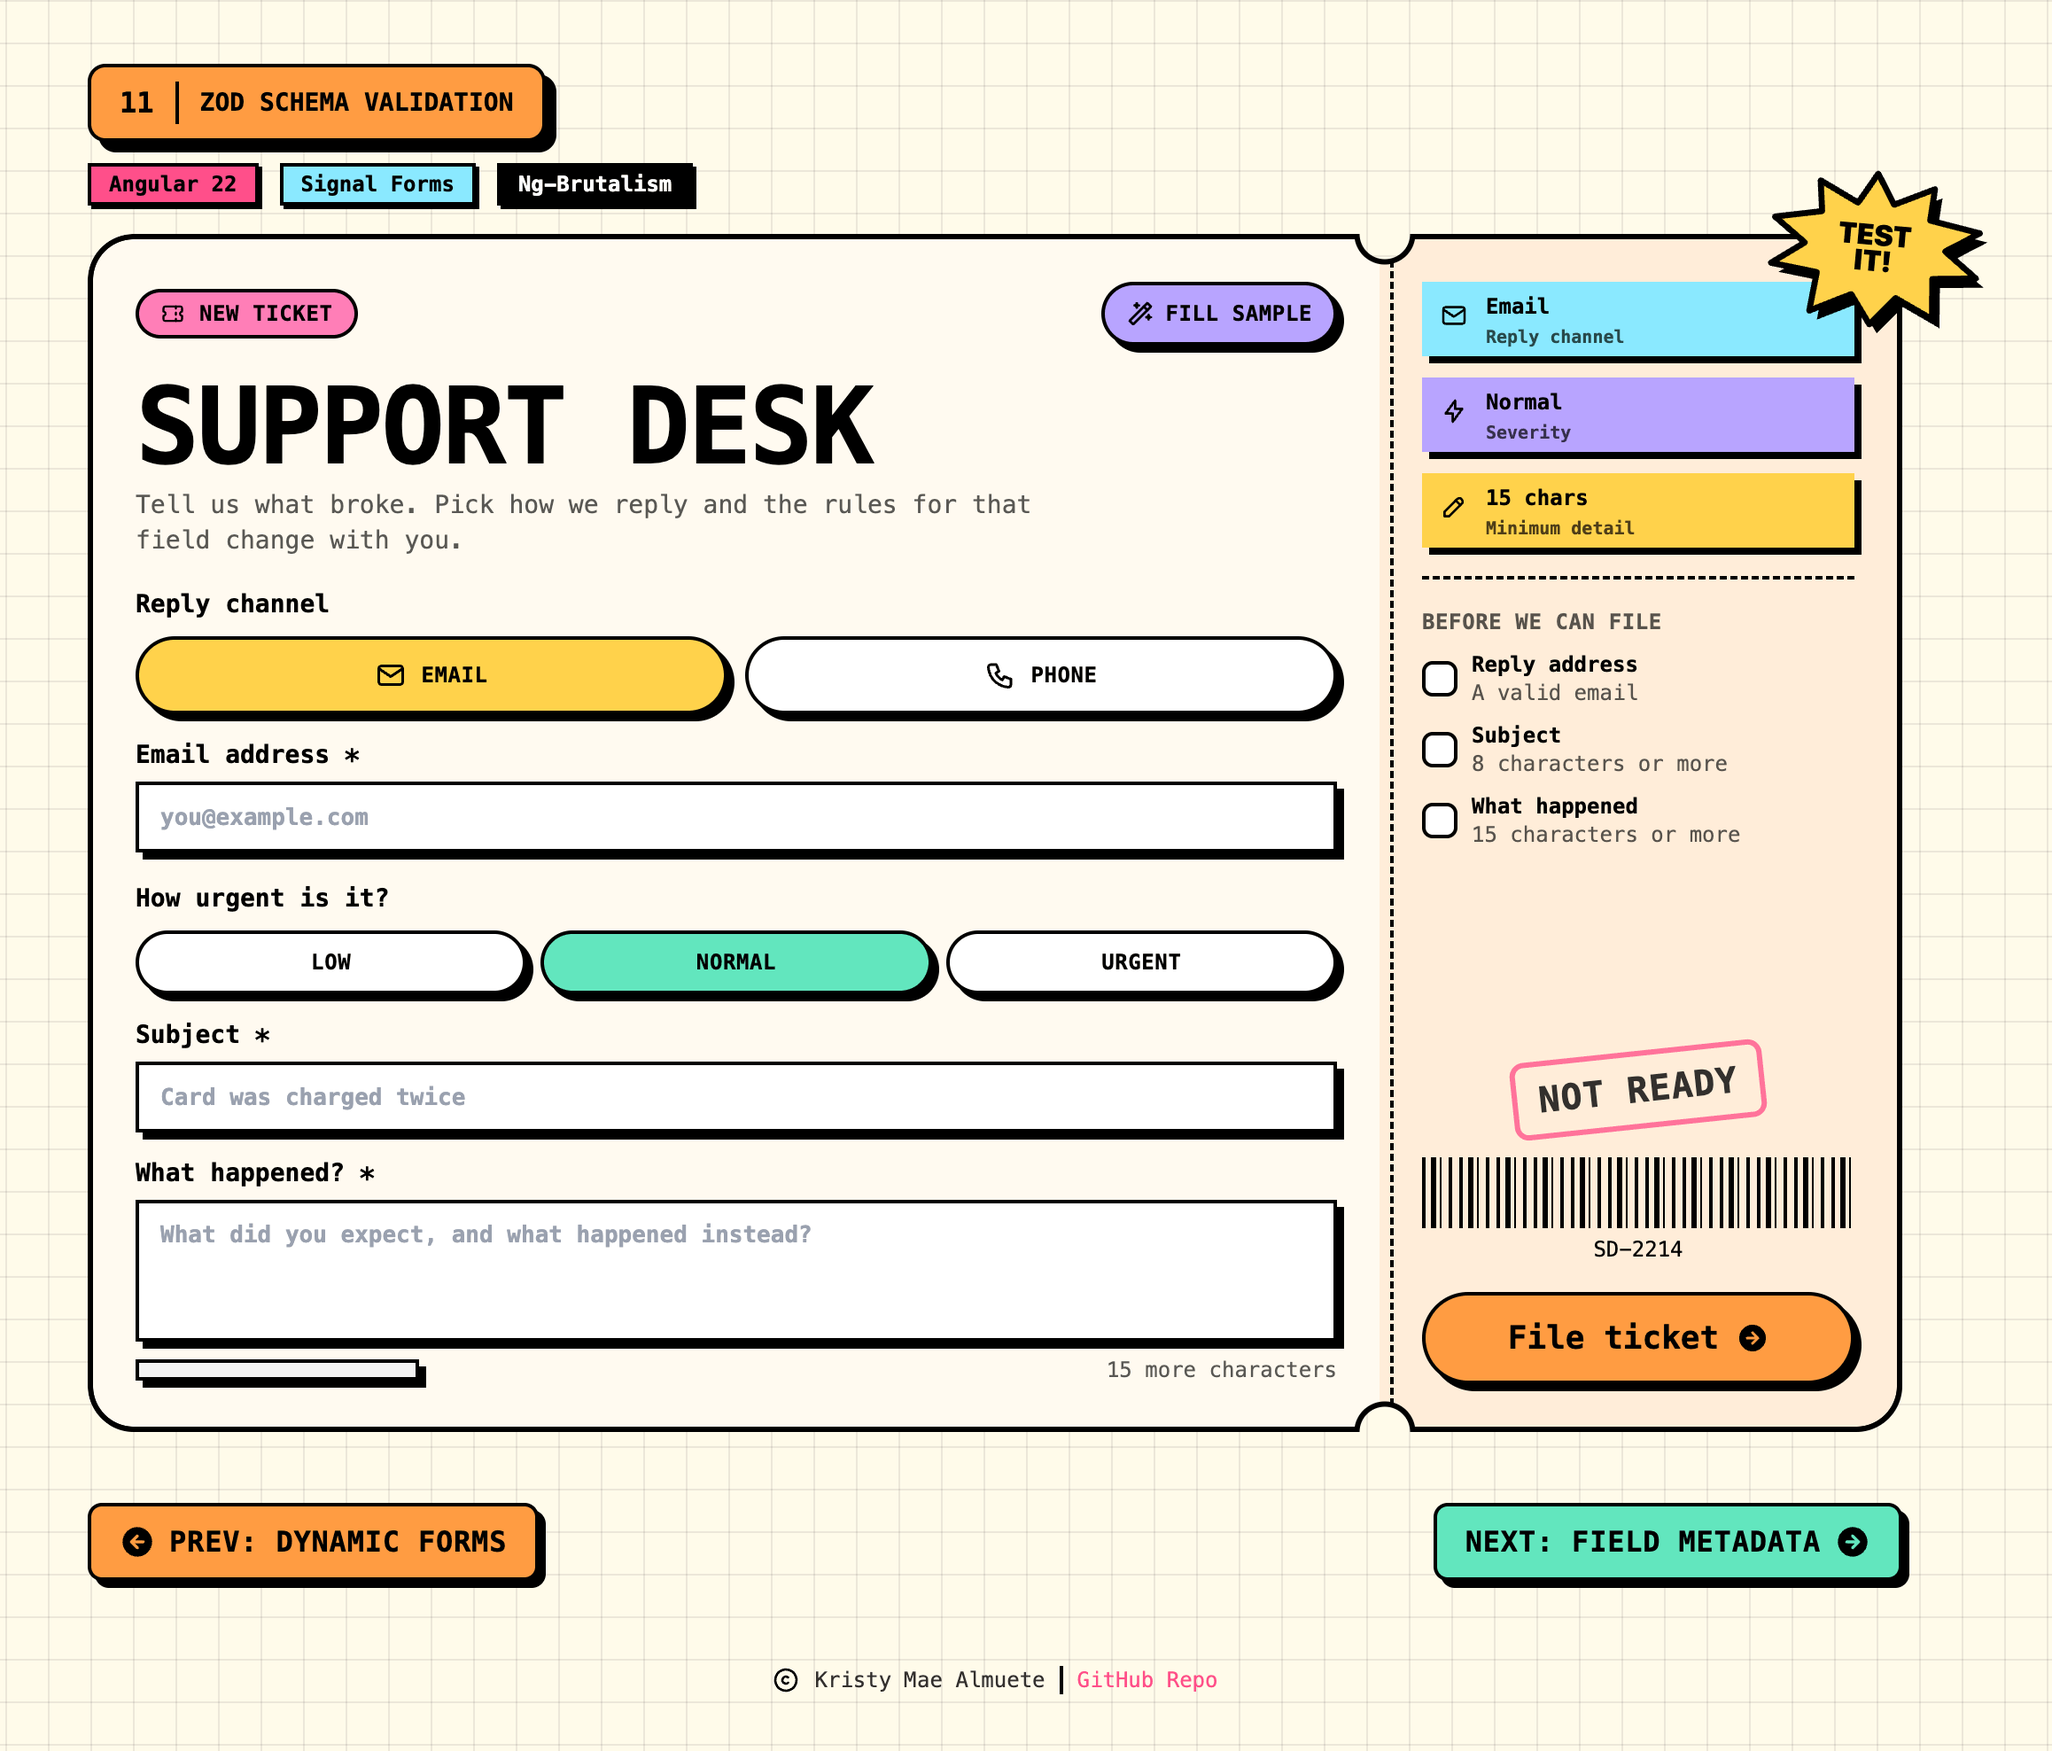
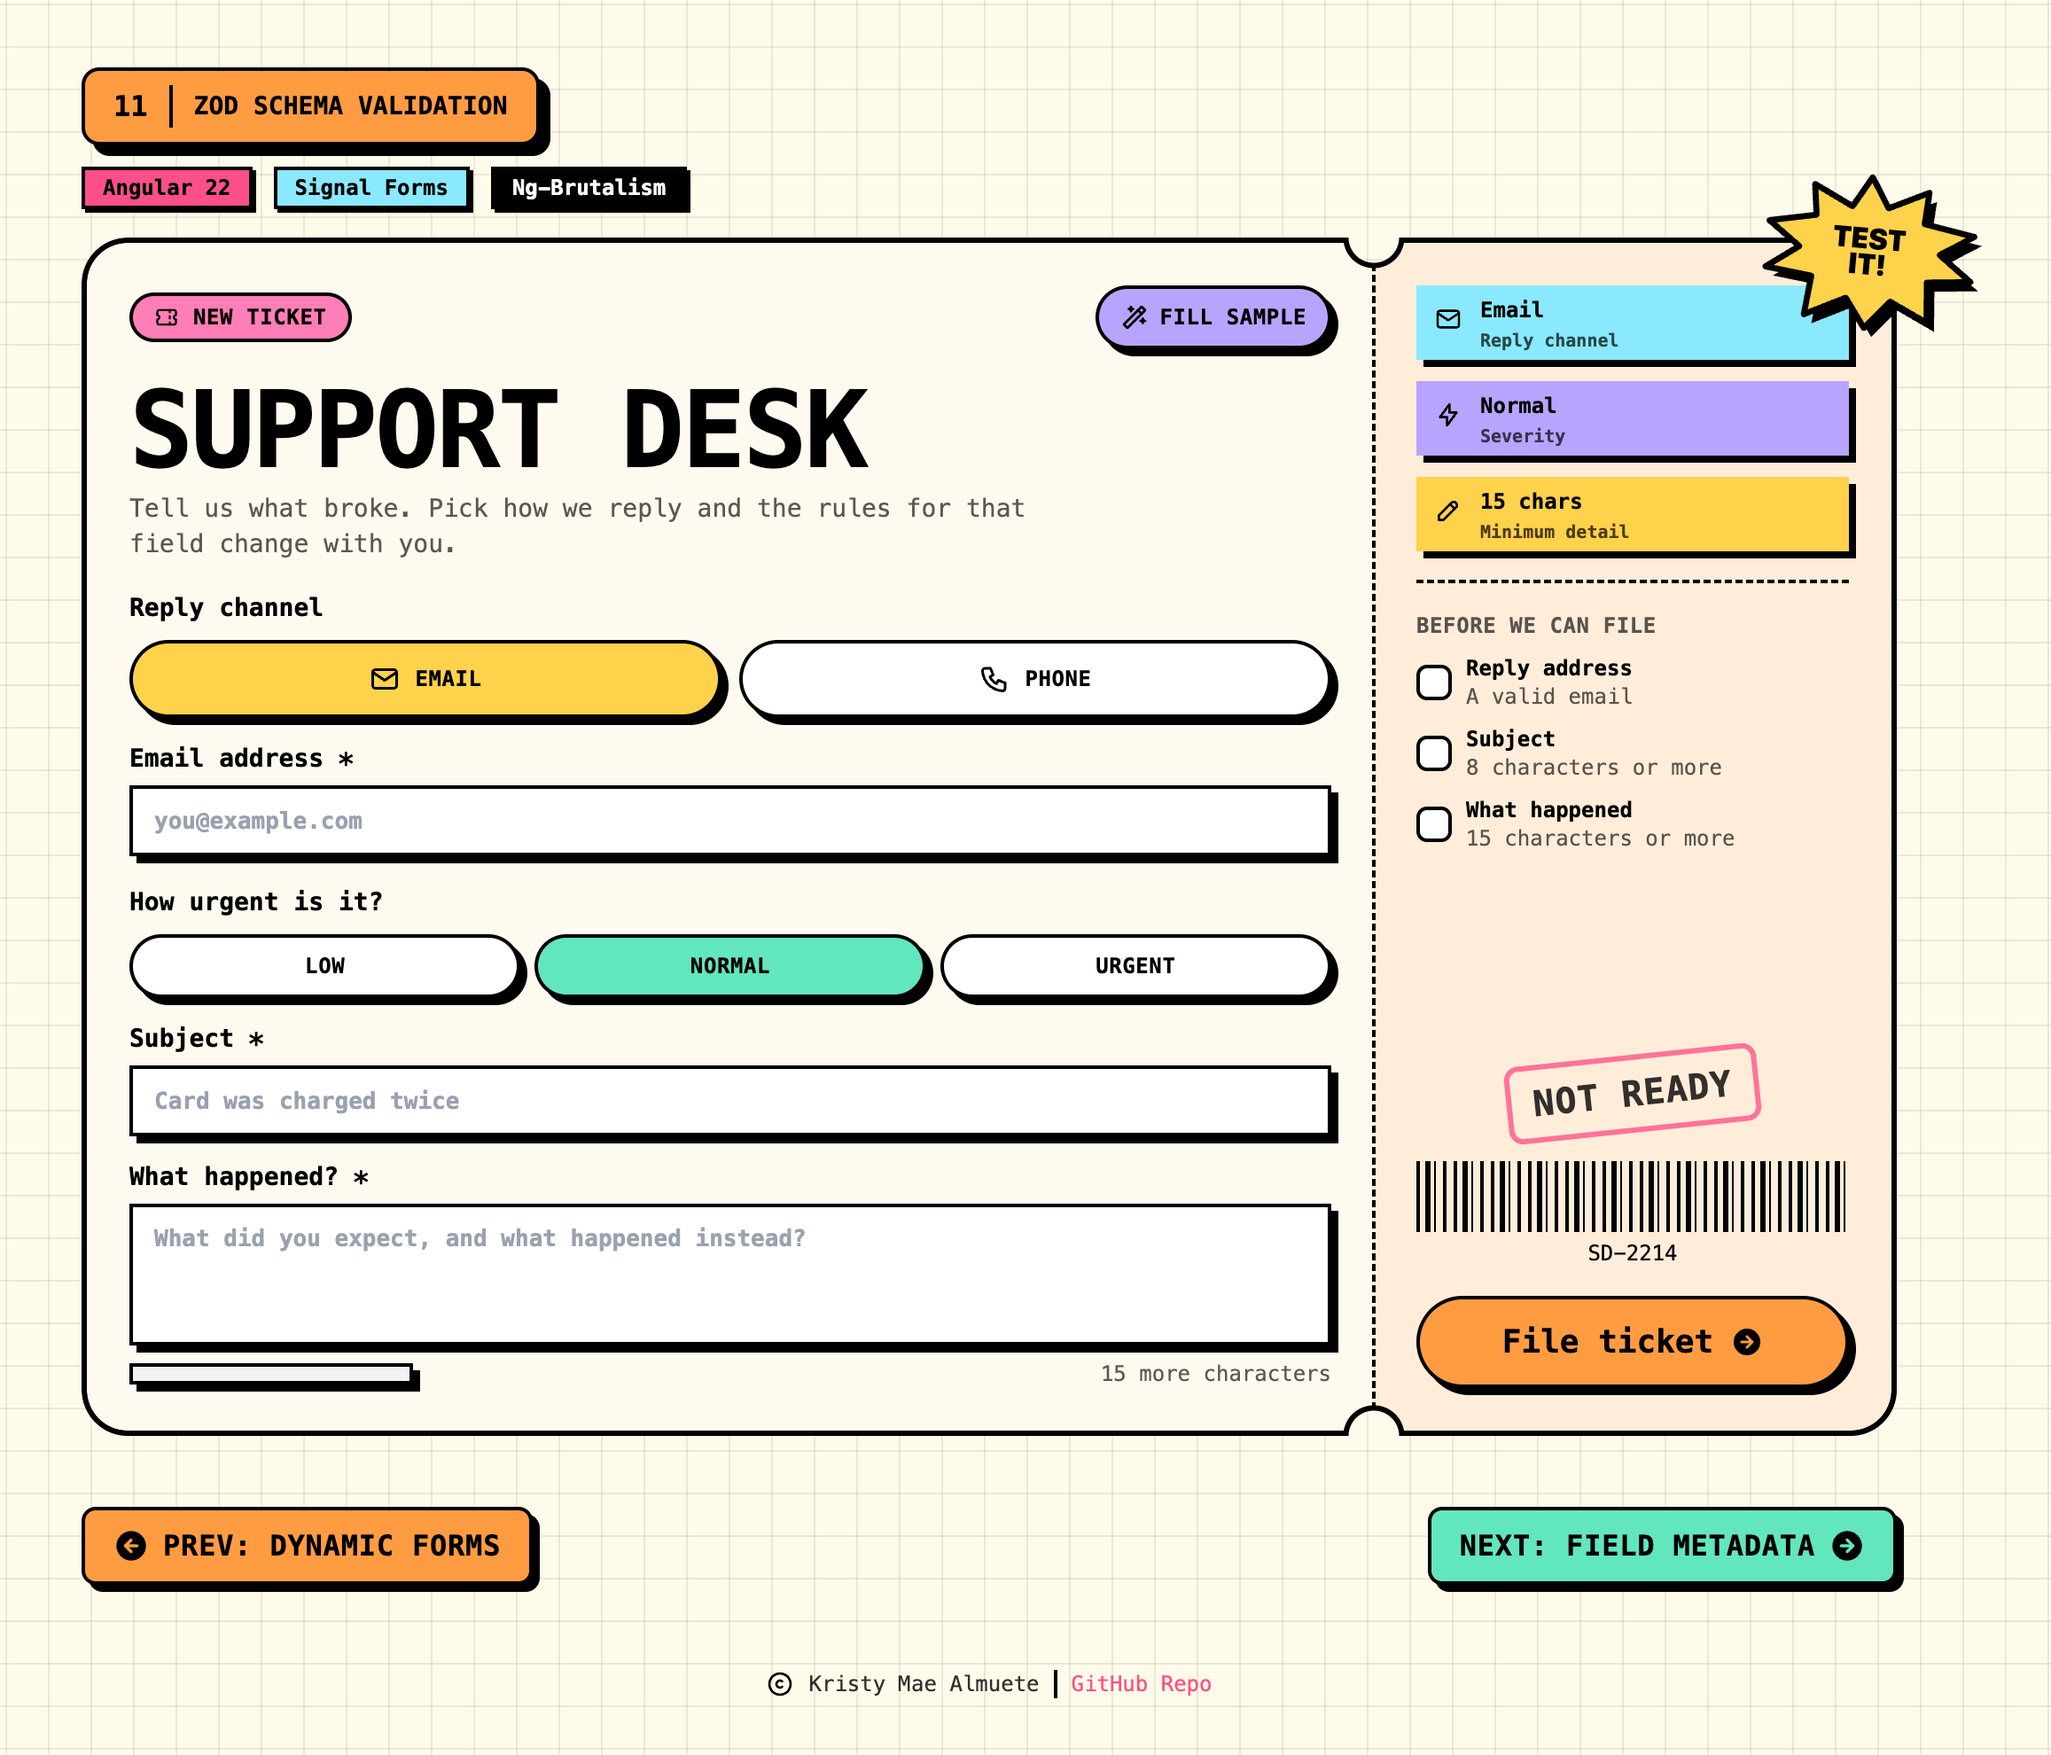
fix(zod): fix css and preview #14

diff --git a/apps/11-zod-schema/src/app/app.scss b/apps/11-zod-schema/src/app/app.scss
@@ -21,6 +21,9 @@ $notch-radius: 14px;
 }
 
 .ticket {
+  /* The stub's width inside the body, so it matches `lg:w-73` (292px) in
+     app.html. The shell subtracts one border on top of it, because the body is
+     inset by that much and the seam sits where the body's stub column starts. */
   --ticket-stub: 292px;
 
   background: var(--nb-shadow);
@@ -31,7 +34,7 @@ $notch-radius: 14px;
   @media (width >= 64rem) {
     @include ticket-notch(
       $notch-radius,
-      calc(100% - var(--ticket-stub)),
+      calc(100% - var(--ticket-stub) - #{$ticket-border}),
       0,
       100%
     );
@@ -45,10 +48,19 @@ $notch-radius: 14px;
     @media (width >= 64rem) {
       @include ticket-notch(
         $notch-radius + $ticket-border,
-        calc(100% - var(--ticket-stub) + #{$ticket-border}),
+        calc(100% - var(--ticket-stub)),
         -$ticket-border,
         calc(100% + #{$ticket-border})
       );
+    }
+
+    /* nbSplit centres its dashed separator with
+       `calc(var(--_nb-gap-resolved) / -2)`, but that variable is shadowed by the
+       nbStack on the first column, so the line picks up the stack's gap instead
+       of the split's and drifts off the seam. Pin it to the column boundary,
+       which is the x the notch is cut on. */
+    > :first-child::after {
+      inset-inline-end: -1px;
     }
   }
 
